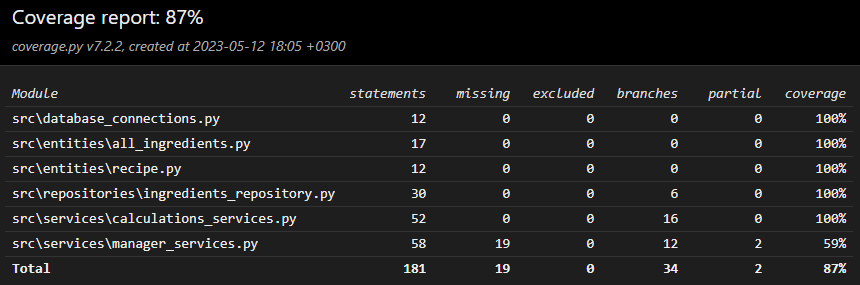
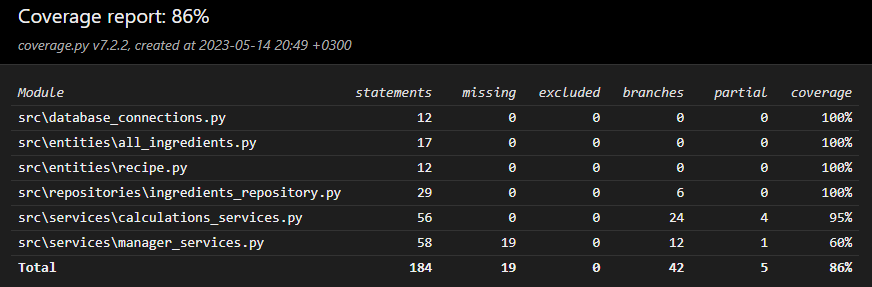
last minute

diff --git a/harjoitustyo/dokumentaatio/testausdokumentti.md b/harjoitustyo/dokumentaatio/testausdokumentti.md
@@ -5,7 +5,7 @@ Ohjelmistoa on testattu yksikkö- ja integraatiotasolla. Moni luokka on riippuva
 
 ## Testikattavuus
 
-Haarautumakattavuus on 87% käyttöliittymäkerrosta lukuunottamatta.
+Haarautumakattavuus on 86% käyttöliittymäkerrosta lukuunottamatta.
 
 ![testikattavuus](./images/coverage_report.png)
 
@@ -24,3 +24,7 @@ Sovelluksen toiminnallisuudet on testattu syöttämällä virheellisiä, tyhjiä
 ## Sovellukseen jääneet tunnetut bugit
 
 - Ainesosia lisätessä niiden oletusmäärä on 0. Tämä määrä pysyy kunnes ainesosan määrä päivitetään vastaavasta syötekentästä.
+
+## Varautumattomia virhetilanteita
+
+- Ohjelmisto olettaa, että */data/*, sekä */src/* hakemistoissa oleviin tiedostoihin ei ole tehty muutoksia tai, että niitä ei ole poistettu. Sovellus saattaa kaatua tai tuottaa virhekoodin, jos lähdekoodiin tai kyseisten hakemistojen tiedostoihin on tehty muutoksia.
